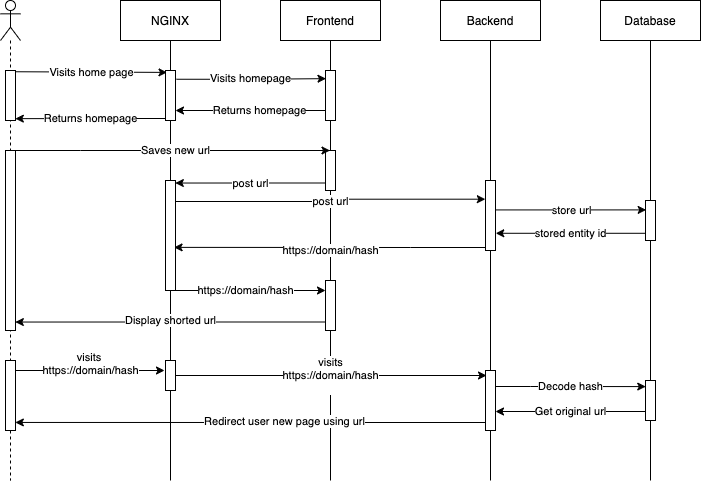
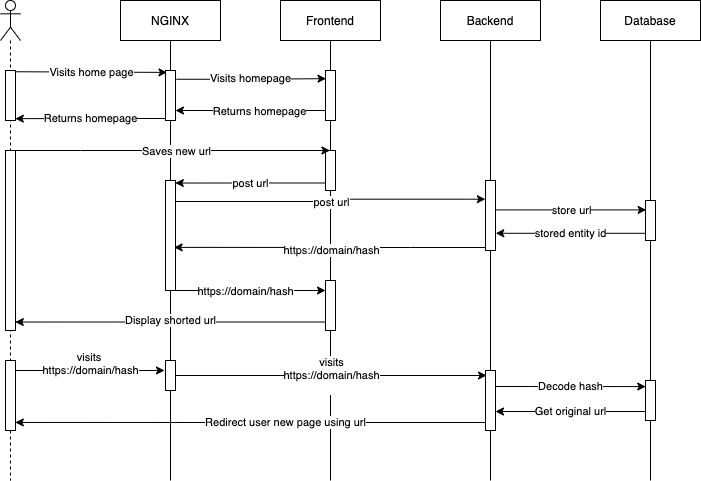
Updated docker-compose e2e networks, added README and udpated sequence diagrams

diff --git a/README.md b/README.md
@@ -1,0 +1,52 @@
+# URL Shortener
+## Tech stack
+### Backend
+
+- Nodejs
+- TypeScript
+- TypeORM
+- Sqlite3
+- Jest
+- Nginx as Reverse Proxy
+
+### Frontend
+
+- React
+- Tailwindcss
+- TypeScript
+- Jest
+- Cypress
+
+## Commands
+
+  Unit tests:
+  
+      make test
+  
+  End-to-end tests:
+
+      make test-e2e
+  
+  Development environment:
+
+      make dev
+
+## Sequence diagram
+
+![Sequence diagram](./diagrams/sequence-diagram.png)
+
+## System Design
+
+There are many ways that one could have built an URL shortener.
+
+One:
+The first option could have been a Monolithic application where the server was responsible for the UI, API and Database requests, for example, NextJS.
+
+Two:
+The second option could have been to split the application into Frontend and Backend into different domains or servers. Plus, we could probably leverage a NoSQL database instead of a SQL one.
+
+Third:
+The third option, and this solution, was allowed to work from the same domain without coupling the Frontend and Backend. Uses NGINX as a reverse proxy that sits in front of both applications. Allows both applications to be developed and deployed independently. Unfortunately, our data is not relational. The best choice would have been a NoSQL database.
+
+Fourth:
+The fourth option splits both the FE and BE into different domains or servers, uses a hashing mechanism agnostic to IDs (SQL) or Document IDs (NoSQL), and uses a NoSQL database for fast reads. It could leverage caching using Redis.
